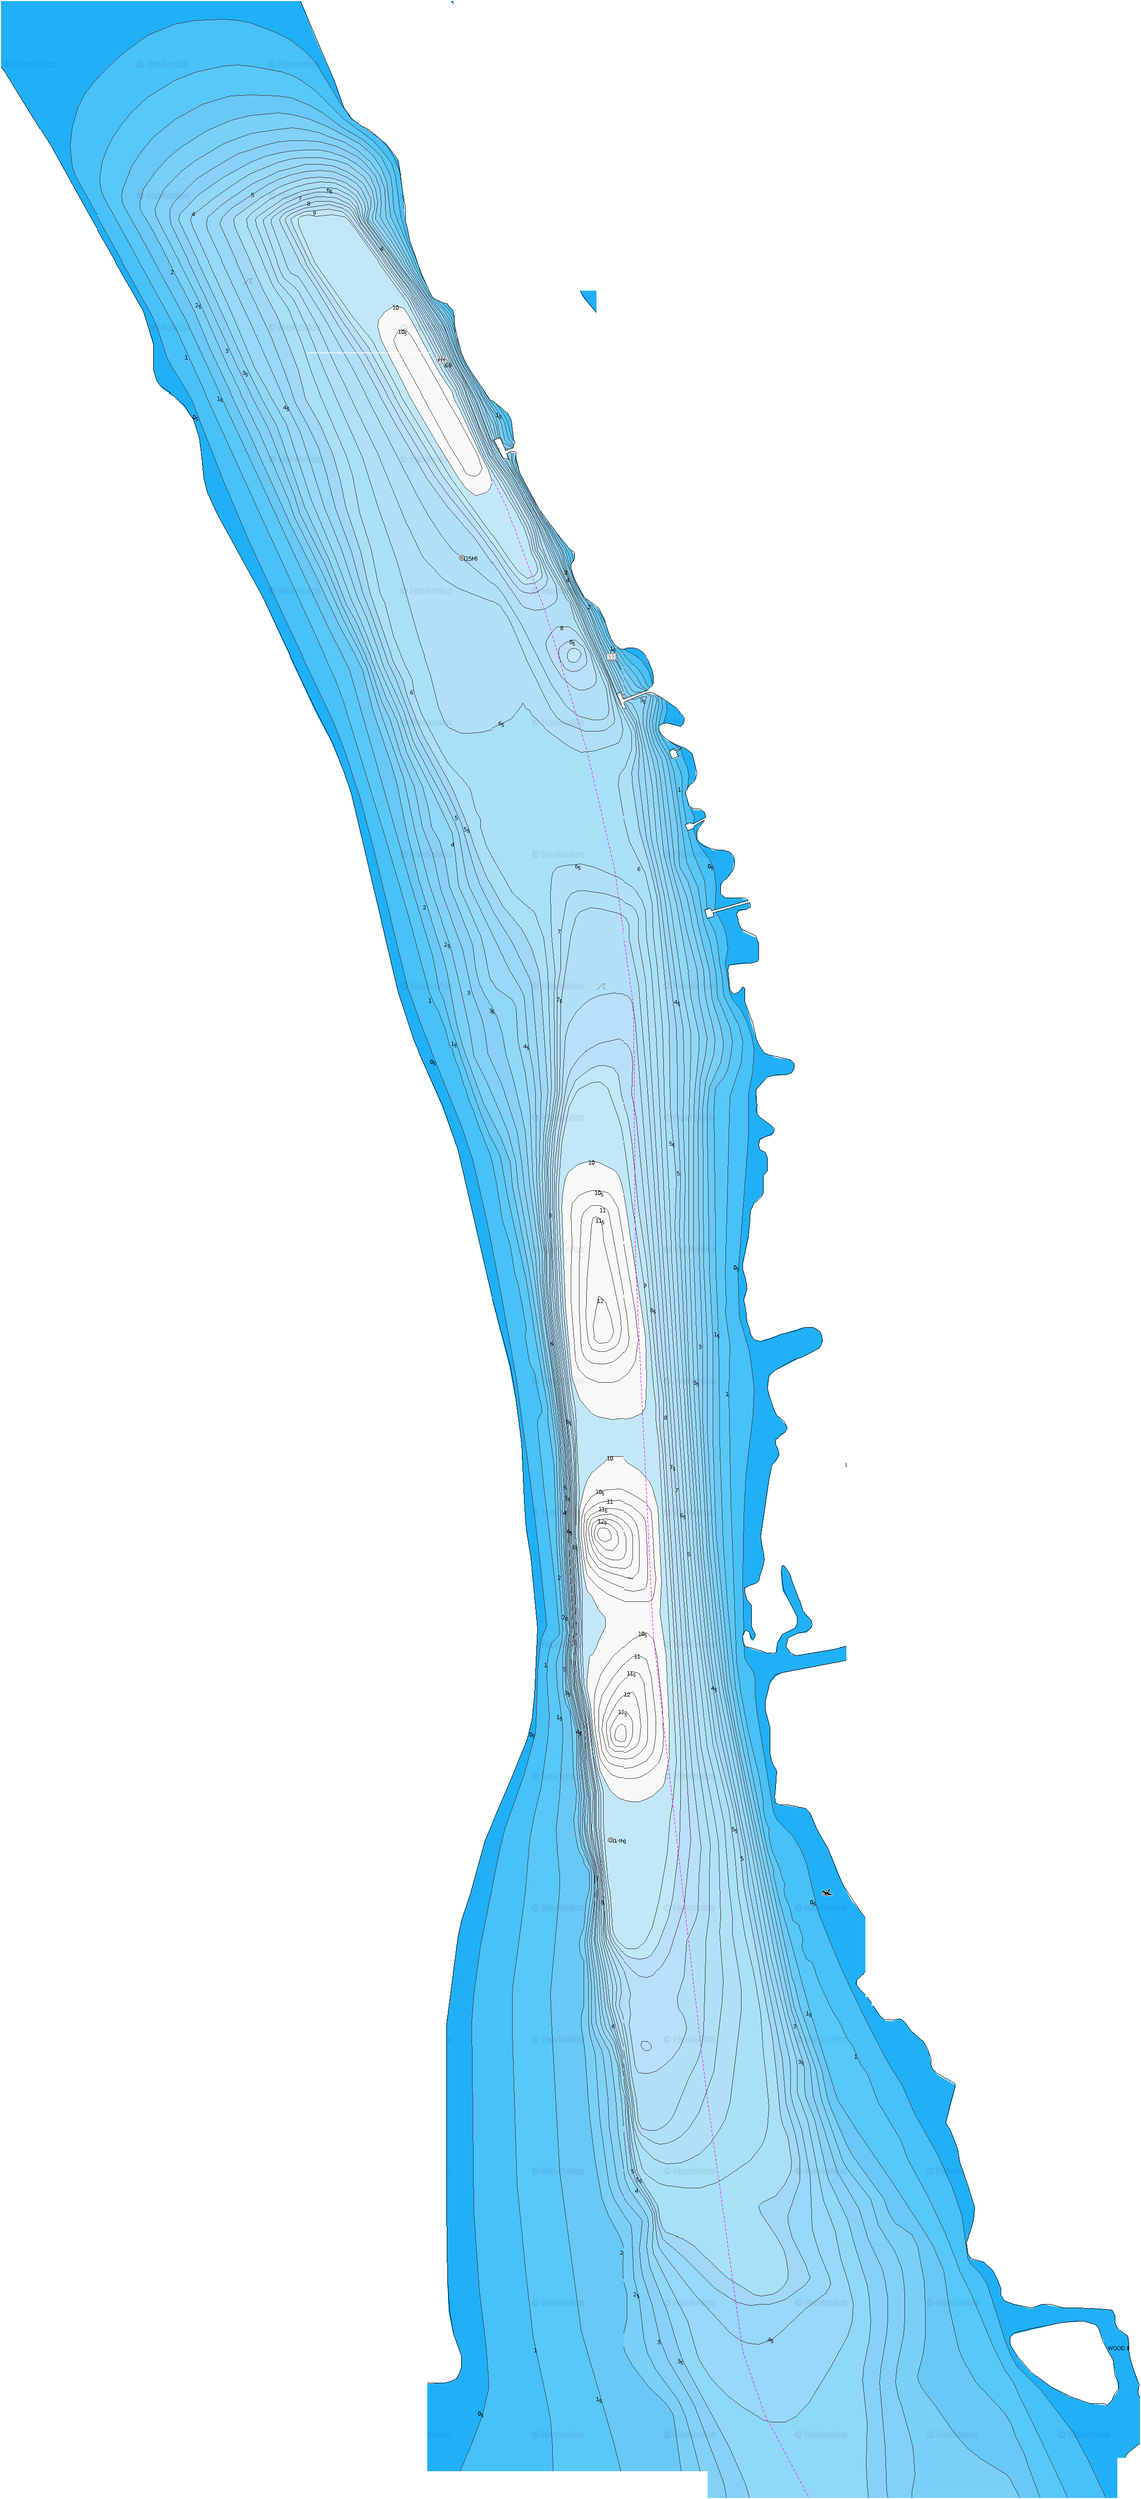
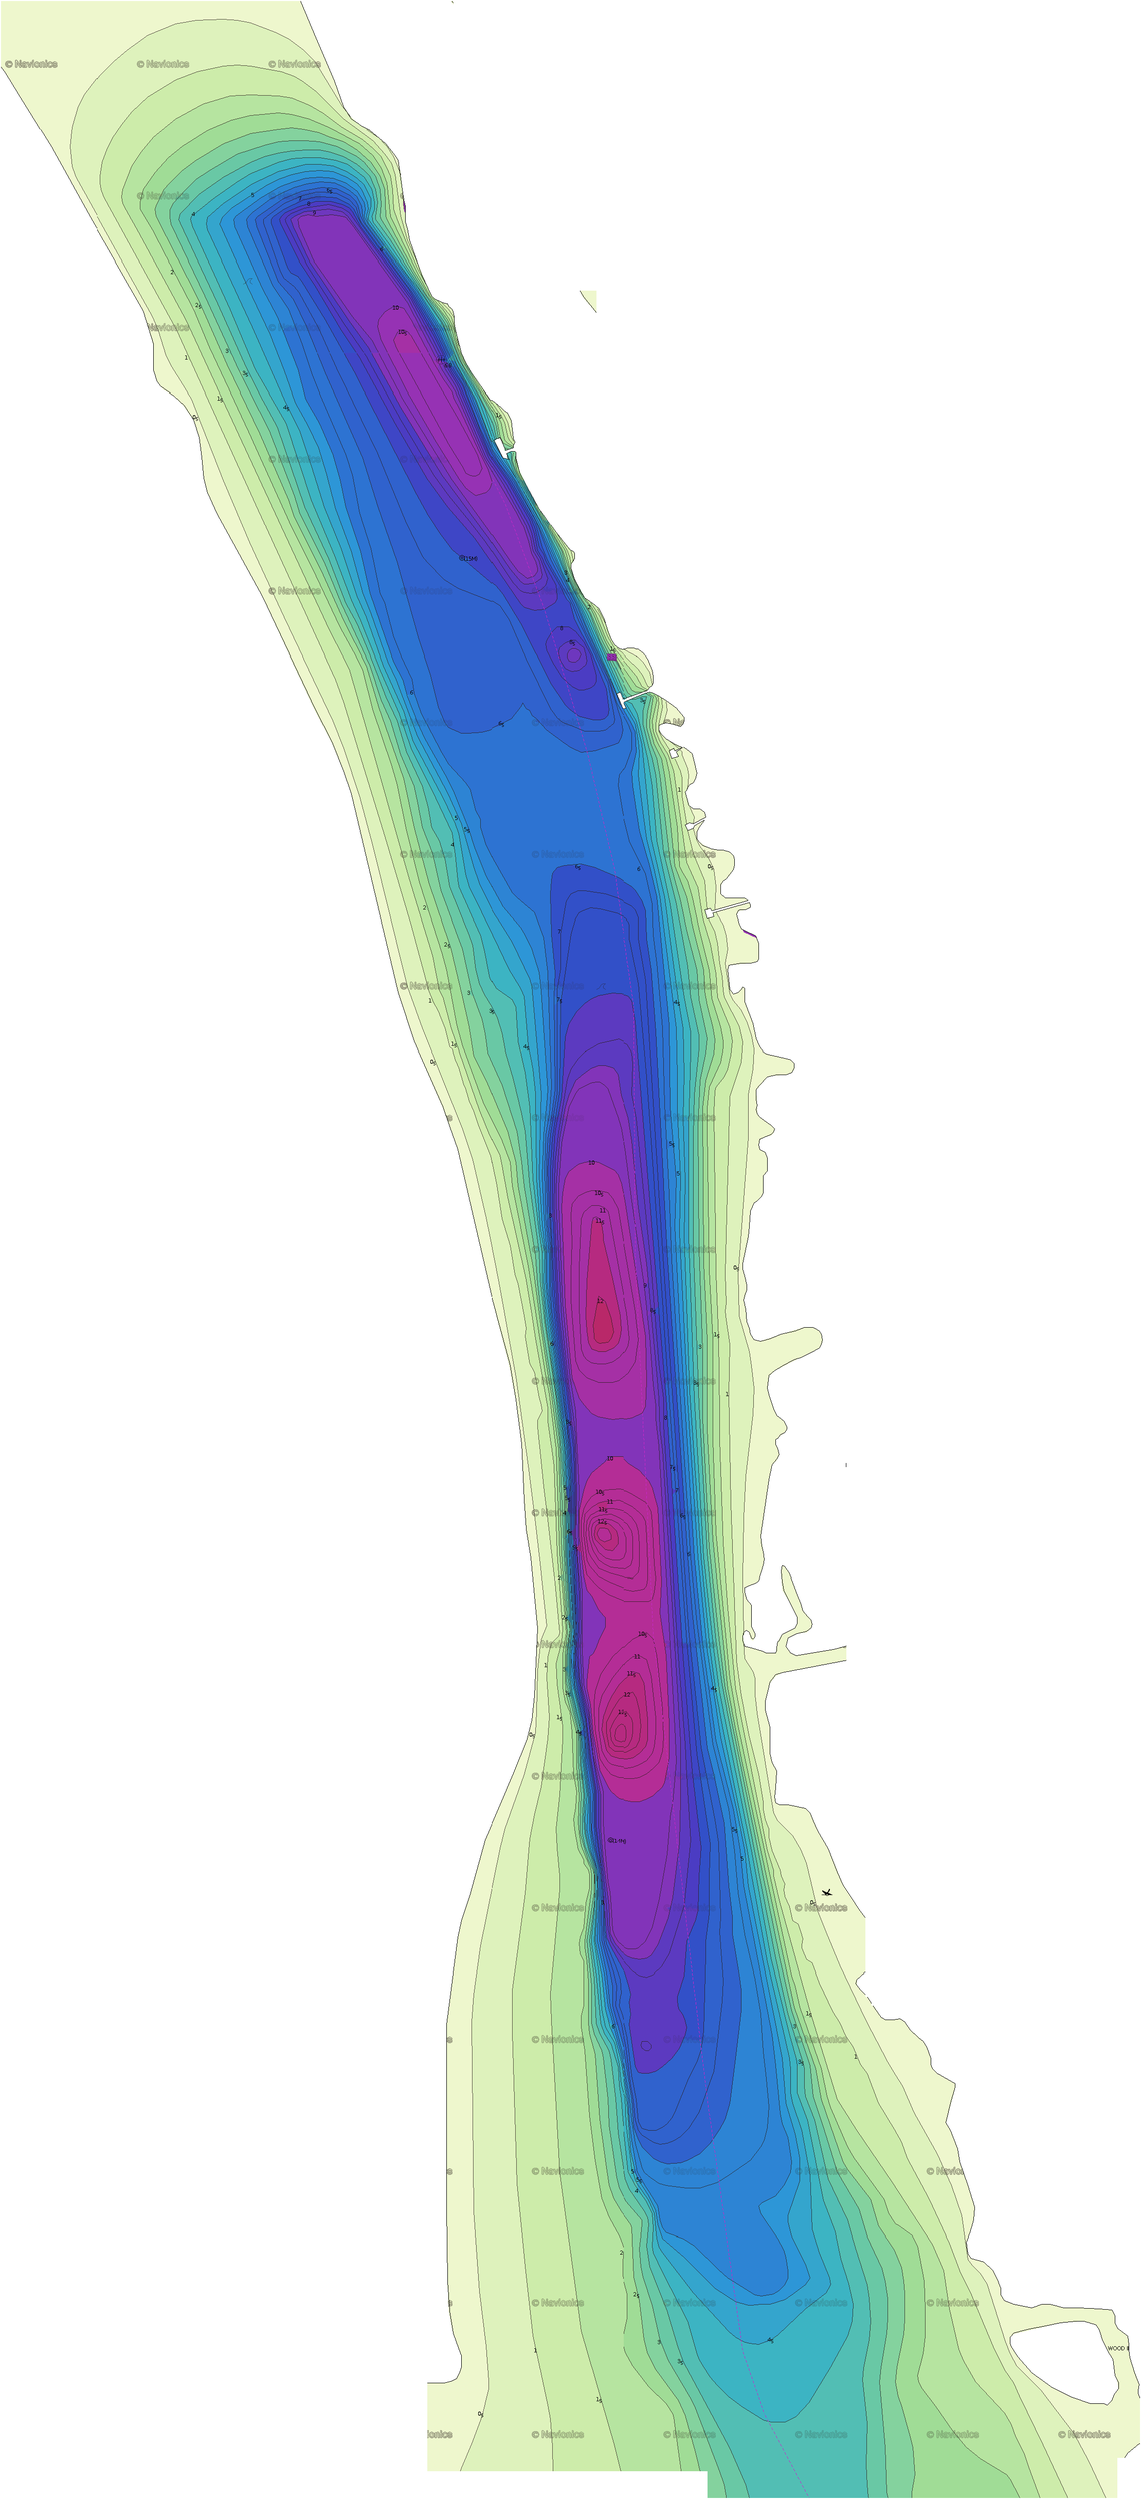
Глубины: шкала по 0,5 м, легенда, глубина в карточке точки и метки
Claude-Session: https://claude.ai/code/session_01N8W9K5SYCrWPECYJg4CzeC

diff --git a/js/app.js b/js/app.js
@@ -3,7 +3,7 @@ import { $, $$, el, esc, copyText, isDesktop, fDist, HOUR } from './util.js';
 import { icon, floatSVG } from './icons.js';
 import { fetchOverview } from './weather.js';
 import { L } from './map.js';
-import { DEPTH_LAYERS } from './depth.js';
+import { DEPTH_LAYERS, DEPTH_PALETTE, DEPTH_STEP } from './depth.js';
 import * as S from './store.js';
 import * as V from './views.js';
 
@@ -145,6 +145,7 @@ function initDepth() {
     return { def, layer };
   });
   $('#depth-name').textContent = DEPTH_LAYERS.map(d => d.name).join(', ');
+  drawDepthLegend();
   const op = $('#depth-opacity');
   op.value = Math.round(depth.opacity * 100);
   op.oninput = () => {
@@ -163,6 +164,70 @@ function initDepth() {
     toast('Слой на исходном месте');
   };
   if (st.on) setDepth(true, false);
+}
+
+// Легенда шкалы глубин в панели.
+function drawDepthLegend() {
+  const box = $('#depth-legend');
+  if (!box) return;
+  const n = DEPTH_PALETTE.length;
+  const stops = DEPTH_PALETTE.map((c, i) => `${c} ${(i / n * 100).toFixed(2)}% ${((i + 1) / n * 100).toFixed(2)}%`).join(', ');
+  const ticks = [];
+  for (let m = 0; m < n * DEPTH_STEP; m += 2) ticks.push(`<span style="left:${(m / (n * DEPTH_STEP) * 100).toFixed(2)}%">${m}</span>`);
+  box.innerHTML = `<div class="dl-bar" style="background:linear-gradient(90deg, ${stops})"></div><div class="dl-ticks">${ticks.join('')}<span class="dl-u">м</span></div>`;
+}
+
+// Глубина по сетке слоя: работает и когда слой скрыт, и без интернета.
+function loadDepthGrid(d) {
+  if (!d.def.grid) return Promise.resolve(null);
+  if (!d.gridP) {
+    d.gridP = new Promise(res => {
+      const img = new Image();
+      img.onload = () => {
+        try {
+          const c = document.createElement('canvas');
+          c.width = img.naturalWidth; c.height = img.naturalHeight;
+          const x = c.getContext('2d', { willReadFrequently: true });
+          x.drawImage(img, 0, 0);
+          res({ data: x.getImageData(0, 0, c.width, c.height).data, w: c.width, h: c.height });
+        } catch { res(null); }
+      };
+      img.onerror = () => res(null);
+      img.src = d.def.grid;
+    });
+  }
+  return d.gridP;
+}
+
+const mercX = lon => (lon + 180) / 360;
+const mercY = lat => { const t = Math.sin(lat * Math.PI / 180); return 0.5 - Math.log((1 + t) / (1 - t)) / (4 * Math.PI); };
+
+async function depthAt(lat, lon) {
+  for (const d of depth.layers) {
+    const [[south, west], [north, east]] = d.layer.getBounds();
+    if (lat < south || lat > north || lon < west || lon > east) continue;
+    const g = await loadDepthGrid(d);
+    if (!g) continue;
+    const u = (mercX(lon) - mercX(west)) / (mercX(east) - mercX(west));
+    const v = (mercY(lat) - mercY(north)) / (mercY(south) - mercY(north));
+    const gx = Math.floor(u * g.w), gy = Math.floor(v * g.h);
+    // у самого берега ищем ближайшую клетку с водой (до ~5 м)
+    for (let r = 0; r <= 3; r++) {
+      for (let dy = -r; dy <= r; dy++) {
+        for (let dx = -r; dx <= r; dx++) {
+          if (Math.max(Math.abs(dx), Math.abs(dy)) !== r) continue;
+          const x = gx + dx, y = gy + dy;
+          if (x < 0 || y < 0 || x >= g.w || y >= g.h) continue;
+          const val = g.data[(y * g.w + x) * 4];
+          if (val >= 248) continue;
+          const b = Math.round(val / 8);
+          return { lo: b * DEPTH_STEP, hi: (b + 1) * DEPTH_STEP, color: DEPTH_PALETTE[b] || DEPTH_PALETTE[DEPTH_PALETTE.length - 1], name: d.def.name, edge: r > 0 };
+        }
+      }
+    }
+    return null;
+  }
+  return null;
 }
 
 function nearestDepth() {
@@ -380,6 +445,7 @@ async function openPoint(lat, lon, preset = {}) {
     });
   }
   loadPointWx(my);
+  depthAt(lat, lon).then(d => { if (point === my) V.setDepth(node, d); });
 }
 
 async function loadPointWx(my) {
@@ -542,6 +608,7 @@ function openSpot(id) {
   highlightSpot(id);
   if (!same) focus(spot.lat, spot.lon, map ? Math.max(map.getZoom(), 13) : undefined);
   V.loadSpotWeather(spot, node);
+  depthAt(spot.lat, spot.lon).then(d => { if (node.isConnected) V.setDepth(node, d); });
 }
 
 function refreshSpot(id) {
@@ -555,6 +622,7 @@ function refreshSpot(id) {
     sheetBody.scrollTop = top;
     highlightSpot(id);
     V.loadSpotWeather(spot, node);
+    depthAt(spot.lat, spot.lon).then(d => { if (node.isConnected) V.setDepth(node, d); });
   }
 }
 
@@ -784,6 +852,7 @@ const ctx = {
   toast, ask, askText, viewer,
   me: () => me,
   savePoint,
+  depthAt,
   refreshSpot,
   refreshMarkers: renderSpotMarkers,
   canInstall: () => !!installEvt,

diff --git a/js/views.js b/js/views.js
@@ -216,6 +216,7 @@ export function pointSheet(pt) {
       <h2 class="sh-title" data-f="name">${esc(pt.name || 'Без названия')}</h2>
       <div class="sh-sub" data-f="sub">${esc(pt.sub || '')}</div>
       ${coordsRow(pt.lat, pt.lon)}
+      <div class="depth-row" data-f="depth" hidden></div>
       <div class="sh-actions">
         <button type="button" class="btn accent" data-act="save">${icon('pin')}Сохранить метку</button>
         <a class="btn" href="${routeURL(pt)}" target="_blank" rel="noopener">${icon('route')}Маршрут</a>
@@ -226,6 +227,15 @@ export function pointSheet(pt) {
   $('[data-act=close]', node).onclick = () => ctx.go('#map');
   $('[data-act=save]', node).onclick = e => { e.currentTarget.disabled = true; ctx.savePoint(); };
   return node;
+}
+
+// Глубина по карте глубин в шапке карточки.
+export function setDepth(node, d) {
+  const box = $('[data-f=depth]', node);
+  if (!box) return;
+  if (!d) { box.hidden = true; return; }
+  box.hidden = false;
+  box.innerHTML = `<span class="sw" style="background:${d.color}"></span><span><b>Глубина ≈ ${numT(d.lo, 1)}–${numT(d.hi, 1)} м</b><small>по карте глубин${d.edge ? ', у самого берега' : ''}</small></span>`;
 }
 
 export function setPointPlace(node, place) {
@@ -255,6 +265,7 @@ export function spotSheet(spot) {
       <h2 class="sh-title">${esc(spot.name)}</h2>
       ${placeLine ? `<div class="sh-sub">${esc(placeLine)}</div>` : ''}
       ${coordsRow(spot.lat, spot.lon)}
+      <div class="depth-row" data-f="depth" hidden></div>
       <div class="sh-actions">
         <a class="btn accent" href="#new-${spot.id}">${icon('plus')}Отчёт о рыбалке</a>
         <a class="btn" href="${routeURL(spot)}" target="_blank" rel="noopener">${icon('route')}Маршрут</a>
@@ -619,6 +630,10 @@ export function formPage({ spotId, reportId }) {
   drawPhotos();
 
   $('[data-act=back]', node).onclick = () => ctx.back(editing ? '#report-' + editing.id : '#spot-' + spot0.id);
+  ctx.depthAt(spot0.lat, spot0.lon).then(d => {
+    const inp = $('#rf-depth', node);
+    if (d && inp && !inp.value) inp.placeholder = `по карте ${numT(d.lo, 1)}–${numT(d.hi, 1)}`;
+  });
 
   let busy = false;
   $('#rf', node).addEventListener('submit', async e => {

diff --git a/css/app.css b/css/app.css
@@ -229,6 +229,17 @@ body.has-sheet .mark-here, body.has-page .mark-here { display: none; }
 .depth-panel.adjust .dp-adj { display: flex; }
 .depth-panel.adjust .dp-normal { display: none; }
 .dp-hint { font-size: 13.5px; color: var(--ink); }
+.dp-legend { display: flex; flex-direction: column; gap: 2px; }
+.depth-panel.adjust .dp-legend { display: none; }
+.dl-bar { height: 10px; border-radius: 5px; box-shadow: inset 0 0 0 1px rgba(0, 0, 0, .12); }
+.dl-ticks { position: relative; height: 14px; font-size: 11px; font-weight: 600; color: var(--ink-2); font-variant-numeric: tabular-nums; }
+.dl-ticks span { position: absolute; top: 0; transform: translateX(-50%); }
+.dl-ticks span:first-child { transform: none; }
+.dl-ticks .dl-u { right: 0; left: auto !important; transform: none; }
+.depth-row { display: flex; align-items: center; gap: 10px; margin-top: 4px; padding: 8px 12px; border-radius: 11px; background: var(--panel-2); }
+.depth-row .sw { width: 22px; height: 22px; border-radius: 6px; flex: none; box-shadow: inset 0 0 0 1px rgba(0, 0, 0, .15); }
+.depth-row b { display: block; font-size: 16px; font-weight: 600; }
+.depth-row small { display: block; font-size: 12.5px; color: var(--ink-2); }
 .dp-adj .btn { flex: 1; }
 body.has-page .depth-panel { display: none; }
 body.depth-on .offline-chip { top: calc(var(--safe-t) + 190px); }

diff --git a/js/depth.js b/js/depth.js
@@ -1,5 +1,9 @@
 // Слои глубин: склеенные скриншоты карт глубин, привязанные к координатам.
 // bounds: [[юг, запад], [север, восток]].
+
+// Шкала глубин: цвет на каждые 0,5 м (индекс = номер полосы, 0 — 0–0,5 м).
+export const DEPTH_PALETTE = ["#eef7cd", "#def2bc", "#cdecaa", "#b6e4a0", "#a0dc96", "#84d29e", "#69c8a5", "#52beb4", "#3cb4c3", "#34a5cd", "#2d96d7", "#2d84d4", "#2d73d2", "#3062cd", "#3250c8", "#3e46c6", "#4b3cc3", "#5c3ac0", "#6e37be", "#8234b9", "#9632b4", "#a530a5", "#b42d96", "#b62a80", "#b92869", "#a22058", "#8c1946", "#6e1437"];
+export const DEPTH_STEP = 0.5;
 export const DEPTH_LAYERS = [
   {
     id: 'rogozhkino',
@@ -11,6 +15,8 @@ export const DEPTH_LAYERS = [
     // уточнено по ручной подгонке на спутнике (≈5 м к югу, ≈15 м к западу)
     bounds: [[47.16547987, 39.33281739], [47.18319489, 39.34472104]],
     rev: 2,
+    // сетка глубин: пиксель = номер полосы × 8, 255 — нет данных (суша)
+    grid: 'depth/rogozhkino-grid.png',
     attribution: 'Глубины © Navionics',
   },
 ];

diff --git a/sw.js b/sw.js
@@ -1,5 +1,5 @@
 // Service worker: приложение и просмотренные куски карты работают без интернета.
-const VERSION = 'klev-v4';
+const VERSION = 'klev-v5';
 const SHELL = VERSION + '-shell';
 const TILES = 'klev-tiles';
 const LIBS = 'klev-libs';
@@ -8,7 +8,7 @@ const MAX_TILES = 2500;
 const SHELL_FILES = [
   './', 'index.html', 'manifest.webmanifest', 'css/app.css',
   'js/app.js', 'js/map.js', 'js/depth.js', 'js/views.js', 'js/store.js', 'js/weather.js', 'js/charts.js', 'js/icons.js', 'js/db.js', 'js/util.js',
-  'depth/rogozhkino-1.webp', 'depth/rogozhkino-2.webp', 'depth/rogozhkino-4.webp',
+  'depth/rogozhkino-1.webp', 'depth/rogozhkino-2.webp', 'depth/rogozhkino-4.webp', 'depth/rogozhkino-grid.png',
   'icons/icon-192.png', 'icons/icon-512.png', 'icons/apple-touch-icon.png',
 ];
 const TILE_HOSTS = ['tile.openstreetmap.org', 'server.arcgisonline.com'];

diff --git a/index.html b/index.html
@@ -41,6 +41,7 @@
     <button type="button" id="depth-go" class="link-btn">К участку</button>
     <button type="button" id="depth-close" class="icon-btn sm" aria-label="Скрыть глубины" data-icon="close"></button>
   </div>
+  <div class="dp-legend dp-normal" id="depth-legend" aria-label="Шкала глубин, метры"></div>
   <div class="dp-row dp-normal">
     <label class="dp-op" for="depth-opacity"><span>Видимость слоя</span><input type="range" id="depth-opacity" min="20" max="100" step="5"></label>
     <button type="button" id="depth-move" class="btn sm">Подвинуть</button>

diff --git a/README.md b/README.md
@@ -9,7 +9,7 @@
 - **«Метка здесь»** — ставит метку там, где вы стоите. К метке сохраняется погода за неделю до её установки, название водоёма подставляется само.
 - **Отчёт о рыбалке** — дата, время «с/по» (ночные рыбалки через полночь учитываются), рыба (вид, штук, кг), на что ловилось, способ ловли, глубина, описание, фото. Погода за часы рыбалки и давление за неделю до неё прикрепляются автоматически, в том числе для старых дат (из архива).
 - **Без связи на водоёме** — отчёт сохранится сразу, погода подтянется, когда появится интернет. Приложение открывается без сети, уже просмотренные участки карты тоже.
-- **Глубины** — кнопка «Глубины» справа на карте включает карту глубин поверх спутника (сейчас — Дон у Рогожкино, около 2 км русла, по скриншотам Navionics). Ползунок меняет видимость слоя, «К участку» показывает его на карте, «Подвинуть» позволяет перетащить слой, если берега чуть не совпадают со спутником, — положение запоминается. Работает без интернета.
+- **Глубины** — кнопка «Глубины» справа на карте включает карту глубин поверх спутника (сейчас — Дон у Рогожкино, около 2 км русла). Слой перекрашен в шкалу с отдельным цветом на каждые 0,5 м, легенда — в панели. При нажатии на точку внутри участка карточка показывает «Глубина ≈ 6–6,5 м» (даже если слой выключен), а в отчёте подсказывает глубину места. Ползунок меняет видимость слоя, «Подвинуть» — ручная подгонка. Работает без интернета.
 - **Журнал** — все рыбалки по месяцам, поиск по рыбе, приманке и месту, итоги и подсказки («лучше всего работает…», «с уловом вы были при давлении …»).
 - **Резервная копия** — все данные с фото в один файл и восстановление из него.
 
